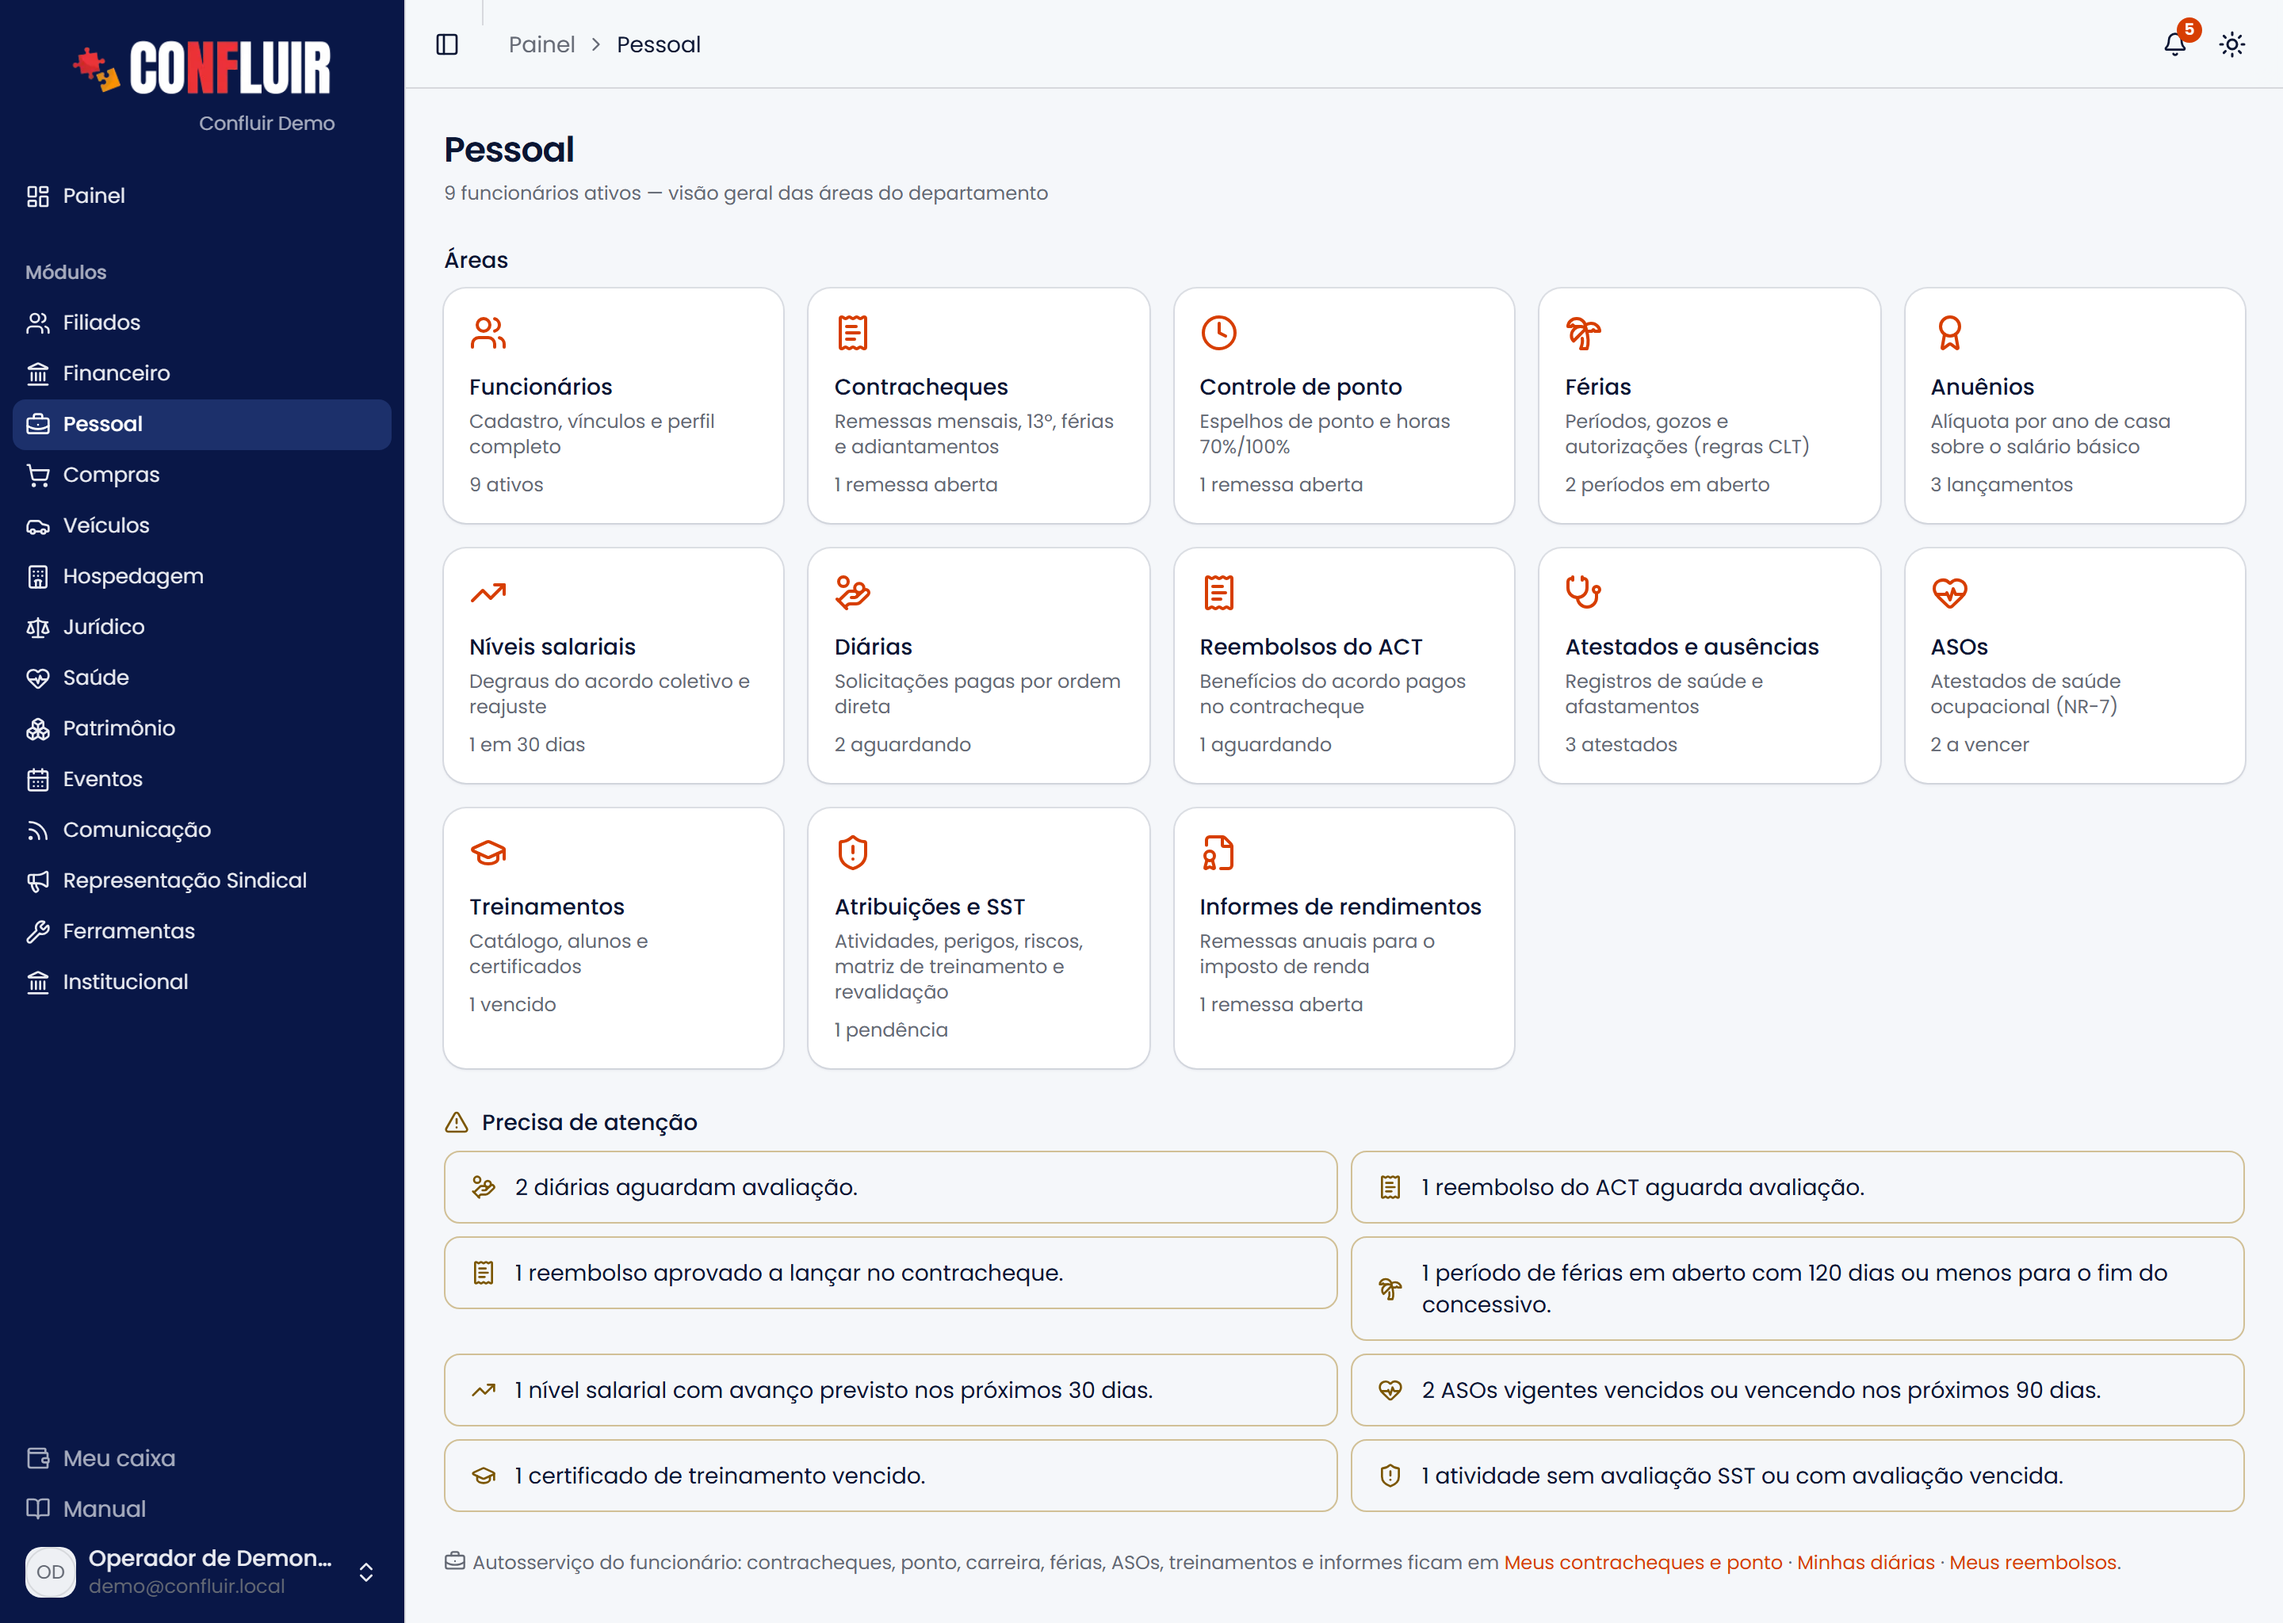
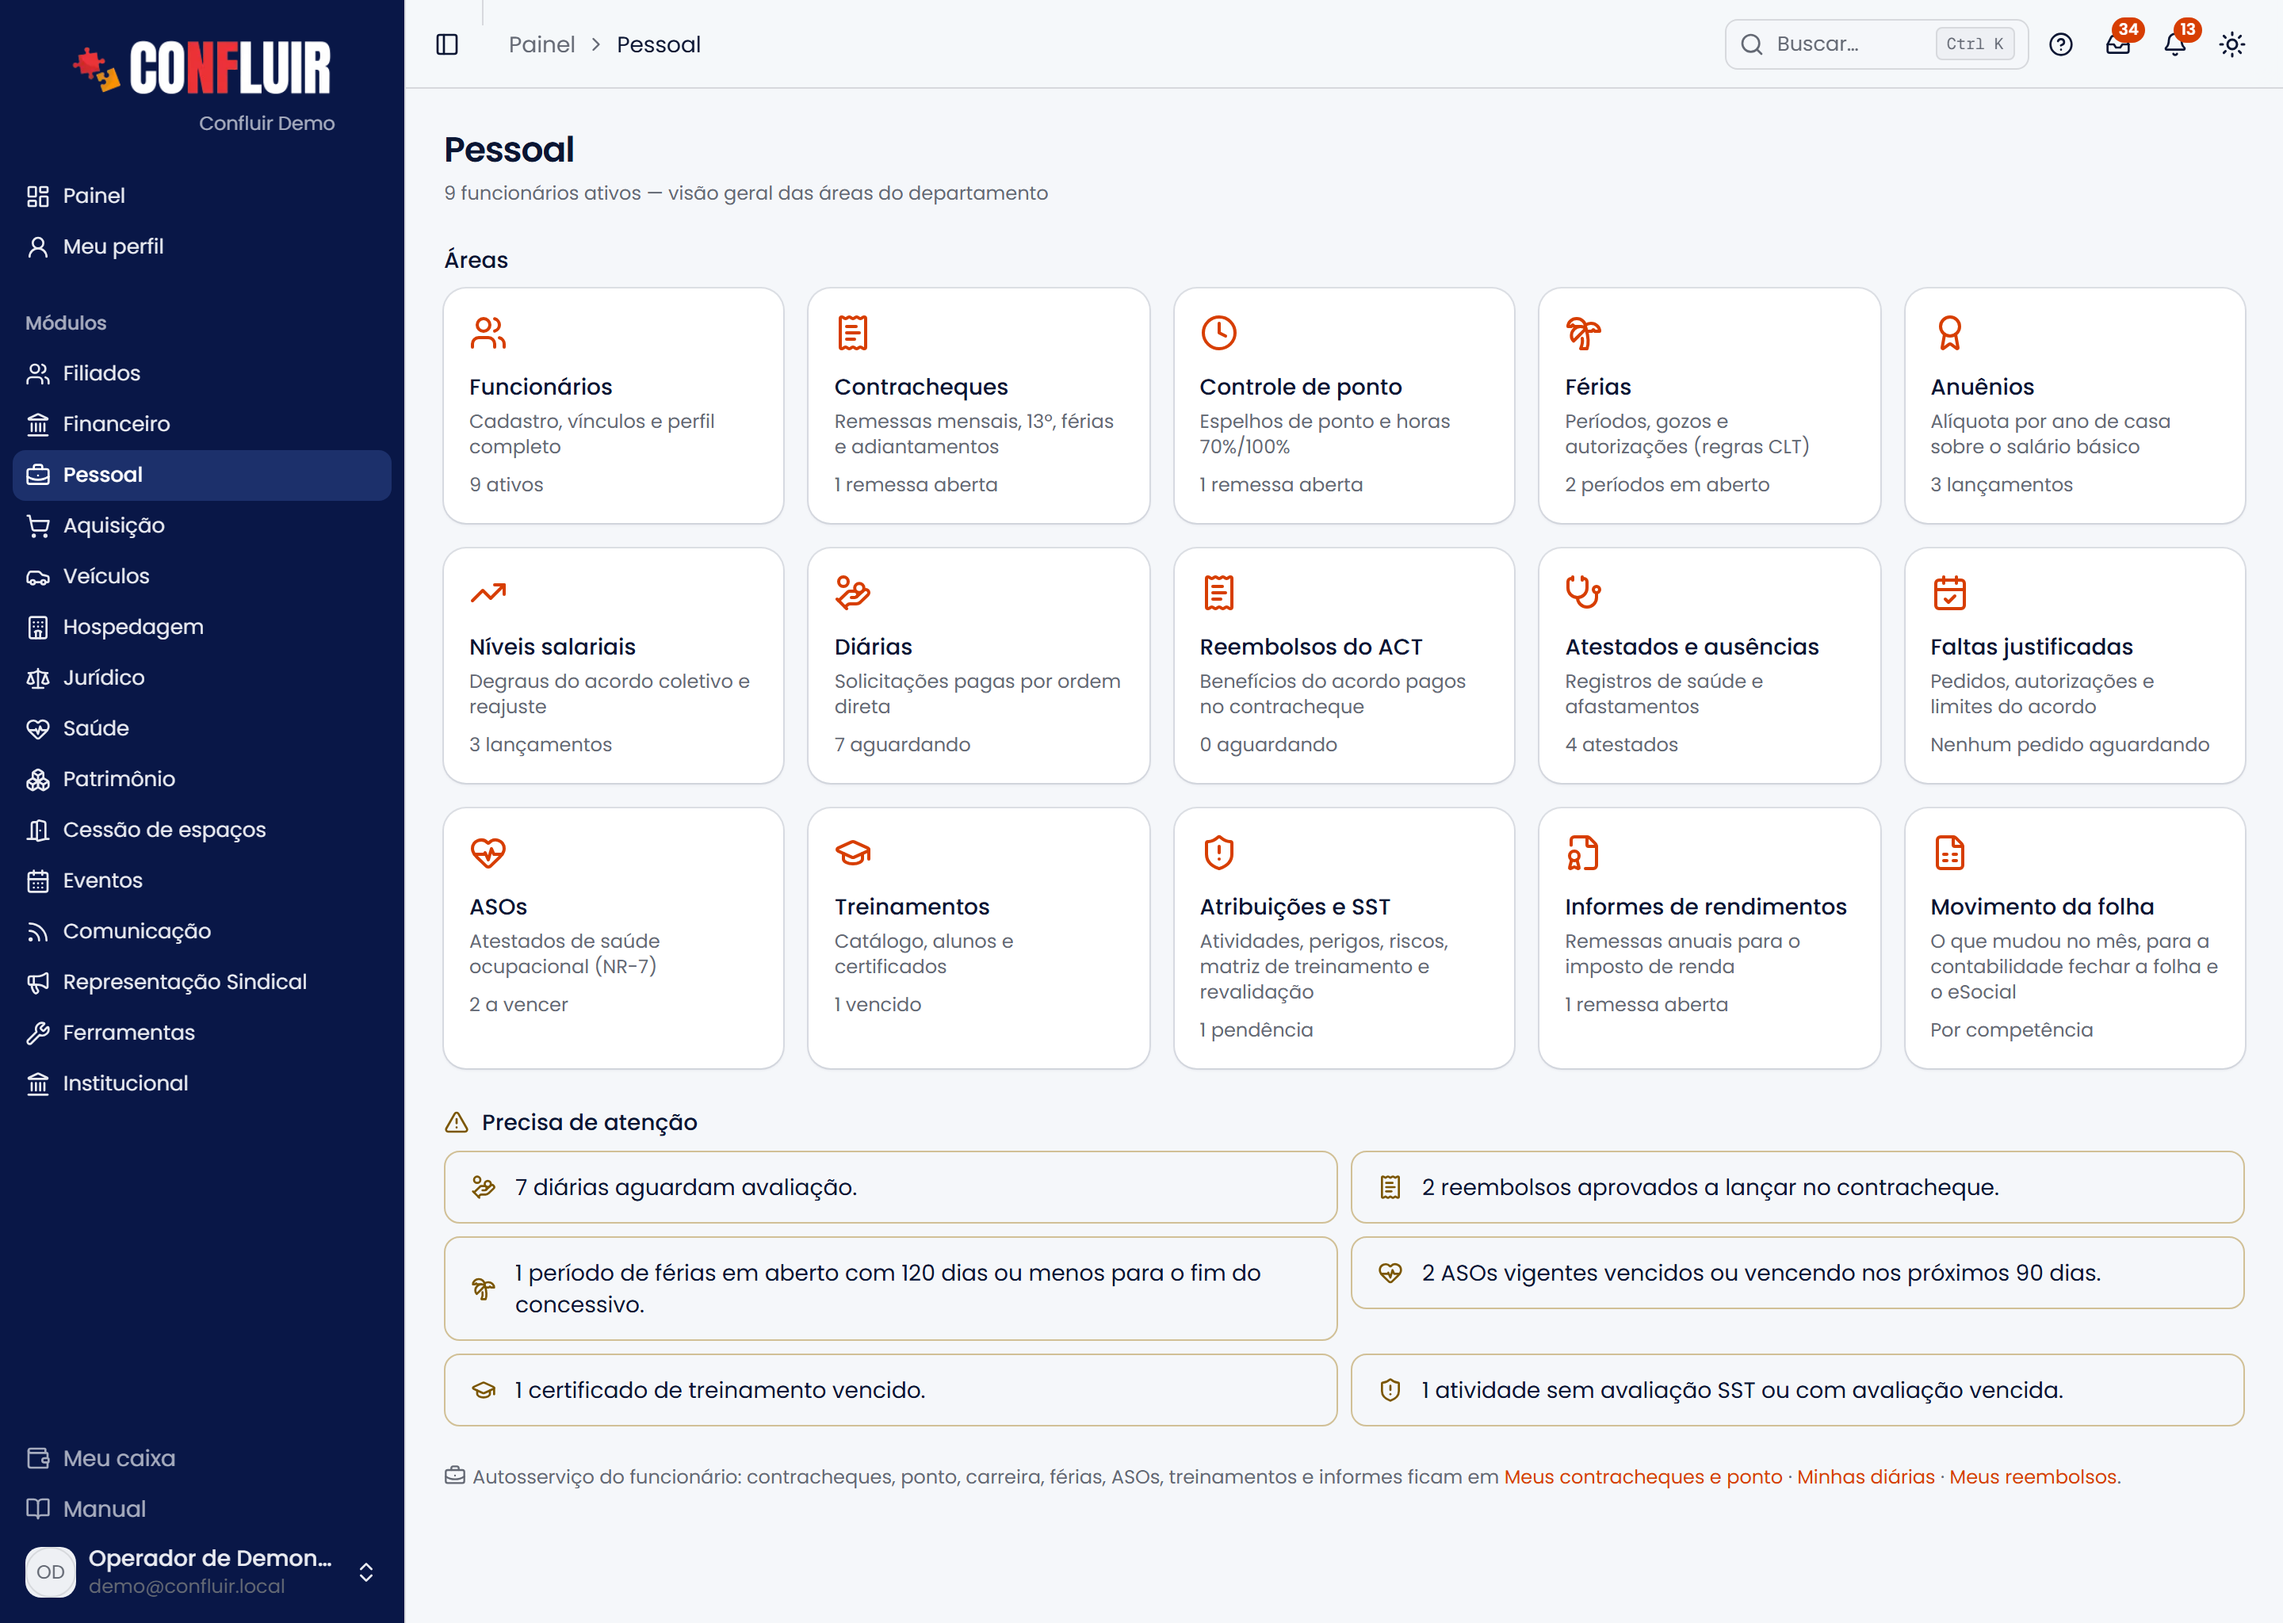
Movimento da folha: próxima competência aberta após o envio + prints do manual

diff --git a/src/lib/ajuda/base-conhecimento.ts b/src/lib/ajuda/base-conhecimento.ts
@@ -492,7 +492,7 @@ export const BASE_AJUDA: ArtigoBase[] = [
   {
     "area": "pessoal",
     "slug": "movimento-folha",
-    "texto": "O Movimento da folha reúne, por competência (o mês da folha), tudo o que\nmudou para os funcionários e que a contabilidade precisa para fechar a folha e\ntransmitir o eSocial. A entidade confere e envia; o escritório consulta, exporta\ne confirma o recebimento — sem planilha por e-mail.\n\n Movimento da folha — conferir e enviar · Movimento da folha — contabilidade \n\nSão duas permissões, que podem ser dadas a pessoas diferentes:\n\n| Permissão | Quem | O que faz |\n| --- | --- | --- |\n| Conferir e enviar | Quem cuida do Pessoal (delegável) | Vê a competência aberta, confere as linhas e envia |\n| Contabilidade | O escritório de contabilidade | Vê só as competências enviadas, exporta e marca como recebida |\n\n O calendário\n\nA folha é paga dentro do mês (adiantamento no dia 10, complemento no dia 25),\npor isso a competência é única e o corte é no dia 15. A partir do dia\n15, quem envia vê na caixa de entrada Movimento da folha a enviar até a\ncompetência ser enviada.\n\n O que entra no relatório\n\nAs linhas vêm dos próprios cadastros do sistema, organizadas pelos eventos do eSocial:\n\n| Seção | Evento | De onde vem |\n| --- | --- | --- |\n| Admissões e desligamentos | S-2200 / S-2299 | Datas de admissão e demissão do vínculo |\n| Alterações contratuais | S-2206 | Cargo, lotação, matrícula, regime, jornada, função, progressões e reajuste da tabela salarial |\n| Alterações cadastrais | S-2205 | Nome, CPF, estado civil, conta bancária e Pix, endereço, dependentes |\n| Férias | S-2230 | Gozos autorizados que começam no mês (ou até o dia 2 do mês seguinte, cujo pagamento sai antes) |\n| Afastamentos e licenças | S-2230 | Atestados (com alerta acima de 15 dias, que vão ao INSS) e ausências do tipo Licença |\n| Faltas | S-1200 | Faltas justificadas autorizadas e ausências do tipo Falta injustificada (a descontar) |\n| Variáveis da remuneração | S-1200 | Horas extras pagas a 70% e 100% (remessa de ponto do mês), anuênios e reembolsos do ACT com pagamento no mês |\n| Descontos | S-1200 | Multas de trânsito a descontar em contracheque |\n| Pendências do cadastro | — | Funcionários ativos sem CPF ou sem conta bancária (informativo) |\n\nAlterações de contrato e de cadastro: \n Essas linhas saem do histórico de alterações do sistema, com a data em que\n a mudança foi feita, e mostram o antes e o depois (ex.: \"Cargo: Assistente →\n Assistente II\"). O histórico começou em 16/10/2026: mudanças anteriores a essa\n data não aparecem.\n \n\n Conferir e enviar\n\n \n \nAbrir a competência: \n Em Pessoal → Movimento da folha, clique na competência Aberta. A tela\n é uma prévia calculada na hora; cada linha leva ao lançamento de origem para\n corrigir o que estiver errado.\n \n \nExportar, se quiser: \n Exportar planilha (CSV) baixa as mesmas linhas para o Excel.\n \n \nEnviar: \n Escreva uma observação, se precisar (ex.: \"reajuste do ACT a partir deste\n mês\"), e clique em Enviar à contabilidade. A competência fica\n congelada como foi entregue e o escritório é avisado.\n \n \n\n Retroativos: o que entra depois do envio\n\nNada se perde e nada se repete. Um lançamento feito depois do envio, mesmo\ncom data no mês já enviado (uma falta do dia 14 registrada no dia 20), entra na\ncompetência seguinte com a marca Retroativo. Linhas já entregues não\naparecem de novo.\n\n Para a contabilidade\n\n \n \nAviso: \n Quando a entidade envia, aparece Movimento da folha a receber na caixa de\n entrada (e por e-mail ou Telegram, se o aviso estiver ligado em Meu perfil →\n Avisos).\n \n \nConsultar e exportar: \n Abra a competência, leia a observação de quem enviou e exporte a planilha.\n \n \nConfirmar o recebimento: \n Clique em Marcar como recebido. Quem enviou é avisado e a competência\n passa a Recebida."
+    "texto": "O Movimento da folha reúne, por competência (o mês da folha), tudo o que\nmudou para os funcionários e que a contabilidade precisa para fechar a folha e\ntransmitir o eSocial. A entidade confere e envia; o escritório consulta, exporta\ne confirma o recebimento — sem planilha por e-mail.\n\n Movimento da folha — conferir e enviar · Movimento da folha — contabilidade \n\nSão duas permissões, que podem ser dadas a pessoas diferentes:\n\n| Permissão | Quem | O que faz |\n| --- | --- | --- |\n| Conferir e enviar | Quem cuida do Pessoal (delegável) | Vê a competência aberta, confere as linhas e envia |\n| Contabilidade | O escritório de contabilidade | Vê só as competências enviadas, exporta e marca como recebida |\n\n O calendário\n\nA folha é paga dentro do mês (adiantamento no dia 10, complemento no dia 25),\npor isso a competência é única e o corte é no dia 15. A partir do dia\n15, quem envia vê na caixa de entrada Movimento da folha a enviar até a\ncompetência ser enviada. Enviada a competência do mês, a seguinte já aparece\naberta na lista: é nela que caem os lançamentos novos e os retroativos.\n\n \n\n O que entra no relatório\n\nAs linhas vêm dos próprios cadastros do sistema, organizadas pelos eventos do eSocial:\n\n| Seção | Evento | De onde vem |\n| --- | --- | --- |\n| Admissões e desligamentos | S-2200 / S-2299 | Datas de admissão e demissão do vínculo |\n| Alterações contratuais | S-2206 | Cargo, lotação, matrícula, regime, jornada, função, progressões e reajuste da tabela salarial |\n| Alterações cadastrais | S-2205 | Nome, CPF, estado civil, conta bancária e Pix, endereço, dependentes |\n| Férias | S-2230 | Gozos autorizados que começam no mês (ou até o dia 2 do mês seguinte, cujo pagamento sai antes) |\n| Afastamentos e licenças | S-2230 | Atestados (com alerta acima de 15 dias, que vão ao INSS) e ausências do tipo Licença |\n| Faltas | S-1200 | Faltas justificadas autorizadas e ausências do tipo Falta injustificada (a descontar) |\n| Variáveis da remuneração | S-1200 | Horas extras pagas a 70% e 100% (remessa de ponto do mês), anuênios e reembolsos do ACT com pagamento no mês |\n| Descontos | S-1200 | Multas de trânsito a descontar em contracheque |\n| Pendências do cadastro | — | Funcionários ativos sem CPF ou sem conta bancária (informativo) |\n\nAlterações de contrato e de cadastro: \n Essas linhas saem do histórico de alterações do sistema, com a data em que\n a mudança foi feita, e mostram o antes e o depois (ex.: \"Cargo: Assistente →\n Assistente II\"). O histórico começou em 16/10/2026: mudanças anteriores a essa\n data não aparecem.\n \n\n Conferir e enviar\n\n \n \nAbrir a competência: \n Em Pessoal → Movimento da folha, clique na competência Aberta. A tela\n é uma prévia calculada na hora; cada linha leva ao lançamento de origem para\n corrigir o que estiver errado.\n \n \nExportar, se quiser: \n Exportar planilha (CSV) baixa as mesmas linhas para o Excel.\n \n \nEnviar: \n Escreva uma observação, se precisar (ex.: \"reajuste do ACT a partir deste\n mês\"), e clique em Enviar à contabilidade. A competência fica\n congelada como foi entregue e o escritório é avisado.\n \n \n\n \n\n Retroativos: o que entra depois do envio\n\nNada se perde e nada se repete. Um lançamento feito depois do envio, mesmo\ncom data no mês já enviado (uma falta do dia 14 registrada no dia 20), entra na\ncompetência seguinte com a marca Retroativo. Linhas já entregues não\naparecem de novo.\n\n \n\n Para a contabilidade\n\n \n \nAviso: \n Quando a entidade envia, aparece Movimento da folha a receber na caixa de\n entrada (e por e-mail ou Telegram, se o aviso estiver ligado em Meu perfil →\n Avisos).\n \n \nConsultar e exportar: \n Abra a competência, leia a observação de quem enviou e exporte a planilha.\n \n \nConfirmar o recebimento: \n Clique em Marcar como recebido. Quem enviou é avisado e a competência\n passa a Recebida."
   },
   {
     "area": "pessoal",

diff --git a/src/app/painel/pessoal/contabilidade/page.tsx b/src/app/painel/pessoal/contabilidade/page.tsx
@@ -26,12 +26,16 @@ export default async function MovimentoFolhaPage() {
   const envia = sessao.permissoes["pessoal_contabilidade_envio"] === true
   const { disponivel, competencias } = await listarCompetencias()
 
-  // Abertas: a atual e, se a anterior não foi enviada, ela também.
+  // Abertas: a atual e, se a anterior não foi enviada, ela também. Enviada a
+  // atual, a seguinte já aparece — é nela que caem os retroativos.
   const atual = competenciaAtual()
   const enviadas = new Set(competencias.map((c) => c.competencia))
+  const proxima = deslocarCompetencia(atual, 1)
   const abertas = envia
-    ? [deslocarCompetencia(atual, -1), atual].filter(
-        (c) => !enviadas.has(c) && (c === atual || competencias.length === 0 || competencias[0].competencia < c)
+    ? [deslocarCompetencia(atual, -1), atual, proxima].filter(
+        (c) =>
+          !enviadas.has(c) &&
+          (c === proxima ? enviadas.has(atual) : c === atual || competencias.length === 0 || competencias[0].competencia < c)
       )
     : []
 
@@ -66,8 +70,11 @@ export default async function MovimentoFolhaPage() {
                     <Badge variant="warning">Aberta</Badge>
                   </div>
                   <CardDescription>
-                    {c < atual ? "Competência anterior ainda não enviada." : "Competência em curso."} Confira e envie à
-                    contabilidade.
+                    {c < atual
+                      ? "Competência anterior ainda não enviada. Confira e envie à contabilidade."
+                      : c > atual
+                        ? "Próxima competência — o que for lançado agora, inclusive os retroativos, já aparece aqui."
+                        : "Competência em curso. Confira e envie à contabilidade."}
                   </CardDescription>
                 </CardHeader>
                 <CardContent className="text-primary flex items-center gap-1 text-sm">
